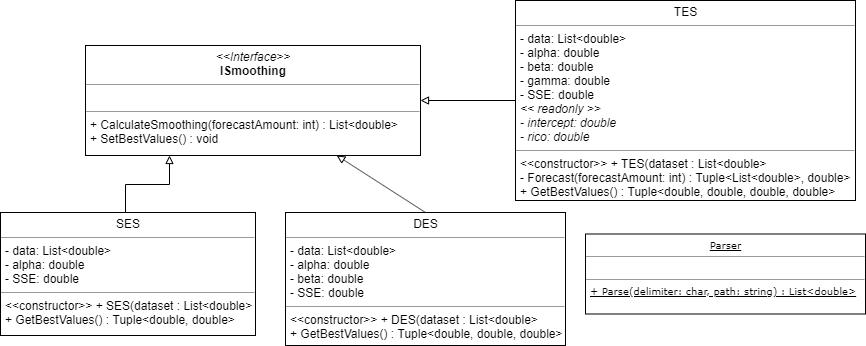
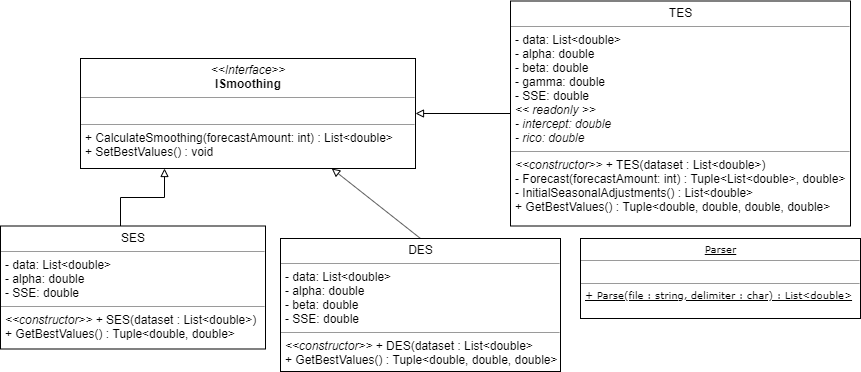
cleanup up some code, finished class diagram and added a screenshot of working solution

diff --git a/Assignment3_Forecasting/Assignment3_Forecasting/Algorithms/TES.cs b/Assignment3_Forecasting/Assignment3_Forecasting/Algorithms/TES.cs
@@ -26,7 +26,6 @@ namespace Assignment3_Forecasting.Algorithms
 
         public List<double> CalculateSmoothing(int forecastAmount)
         {
-            Console.WriteLine("alpha = " + alpha + ", beta = " + beta + ", gamma = " + gamma);
             var forecast = Forecast(forecastAmount);
 
             return forecast.Item1;
@@ -73,18 +72,12 @@ namespace Assignment3_Forecasting.Algorithms
                 dataSetForecastTES.Add(dataSetTES[i]);
             }
 
-            for (int i = 0; i < dataSetForecastTES.Count; i++)
-            {
-                Console.WriteLine(dataSetForecastTES[i]);
-            }
-
             return new Tuple<List<double>, double>(dataSetForecastTES, localSSE);
         }
 
         // take the average of the surrounding 12 months both ways (for t=7 use the average of (t=1->12) and (t=2->13))
         public List<double> InitialSeasonalAdjustments()
         {
-            var total_amount = data.Count;
             List<double> movingAverages = new List<double>();
             List<double> skew = new List<double>();
             List<double> seasons = new List<double>();
@@ -132,18 +125,18 @@ namespace Assignment3_Forecasting.Algorithms
 
         public void SetBestValues()
         {
-            double bestSSE = 100000000.0;
+            double bestSSE = double.MaxValue;
             double bestAlpha = 0.0;
             double bestBeta = 0.0;
             double bestGamma = 0.0;
 
-            for (double a = 0.0; a < 1.0; a += 0.1)
+            for (double a = 0.0; a < 1.0; a += 0.01)
             {
                 alpha = a;
-                for (double b = 0.0; b < 1.0; b += 0.1)
+                for (double b = 0.0; b < 1.0; b += 0.01)
                 {
                     beta = b;
-                    for (double c = 0.0; c < 1.0; c += 0.1)
+                    for (double c = 0.0; c < 1.0; c += 0.01)
                     {
                         gamma = c;
                         var forecast = Forecast(0);

diff --git a/Assignment3_Forecasting/Assignment3_Forecasting/Utils/Parser.cs b/Assignment3_Forecasting/Assignment3_Forecasting/Utils/Parser.cs
@@ -11,8 +11,8 @@ namespace Assignment3_Forecasting.Utils
     {
         public static List<double> Parse(string file, char delimiter)
         {
-            var dataSet = File.ReadAllLines(file).Select(
-                    line => double.Parse(line.Split(delimiter).ElementAt(1)))
+            var dataSet = File.ReadAllLines(file)
+                .Select(line => double.Parse(line.Split(delimiter).ElementAt(1)))
                 .ToList();
             return dataSet;
         }
